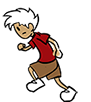
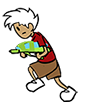
Imagenes de Animacion standing y jumping completas, falta terminar running

diff --git a/WASH/src/com/brackeen/javagamebook/tilegame/ResourceManager.java b/WASH/src/com/brackeen/javagamebook/tilegame/ResourceManager.java
@@ -314,6 +314,8 @@ public class ResourceManager {
             loadImage("salto4.png"),
             loadImage("salto5.png"),
             loadImage("salto6.png"),
+            loadImage("standing1.png"),
+            loadImage("standing2.png")
         };
 
         images[1] = new Image[images[0].length];
@@ -343,17 +345,17 @@ public class ResourceManager {
             grubAnim[i] = createGrubAnim(
                 images[i][13], images[i][14]);
         }
-        playerAnim[4] = createPlayerStanding(images[0][15]);//standing left
-        playerAnim[5] = createPlayerStanding(images[1][15]);//standing right
-        playerAnim[6] = createPlayerJumping(images[0][16], images[0][17], 
+        playerAnim[4] = createPlayerStanding(images[0][22], images[0][23]);//standing left
+        playerAnim[5] = createPlayerStanding(images[1][22], images[1][23]);//standing right
+        playerAnim[6] = createPlayerJumping(images[0][16], images[0][17], //jumping left
                 images[0][18], images[0][19], images[0][20], images[0][21]);
-        playerAnim[7] = createPlayerJumping(images[1][16], images[1][17], 
+        playerAnim[7] = createPlayerJumping(images[1][16], images[1][17], //jumping right
                 images[1][18], images[1][19], images[1][20], images[1][21]);
         
-        flyAnim[4] = createPlayerStanding(images[0][10]);
-        flyAnim[5] = createPlayerStanding(images[1][10]);
-        grubAnim[4] = createPlayerStanding(images[0][13]);
-        grubAnim[5] = createPlayerStanding(images[1][13]);
+        flyAnim[4] = createPlayerStanding(images[0][10], images[0][10]);
+        flyAnim[5] = createPlayerStanding(images[1][10], images[1][10]);
+        grubAnim[4] = createPlayerStanding(images[0][13], images[0][13]);
+        grubAnim[5] = createPlayerStanding(images[1][13], images[1][13]);
 
         // create creature sprites
         playerSprite = new Player(playerAnim[0], playerAnim[1],
@@ -426,10 +428,11 @@ public class ResourceManager {
      * @return  Animation
      */
 
-    private Animation createPlayerStanding(Image player1)
+    private Animation createPlayerStanding(Image player1, Image player2)
     {
         Animation anim = new Animation();
-        anim.addFrame(player1, 150);
+        anim.addFrame(player1, 250);
+        anim.addFrame(player2, 250);
         
         return anim;
     }
